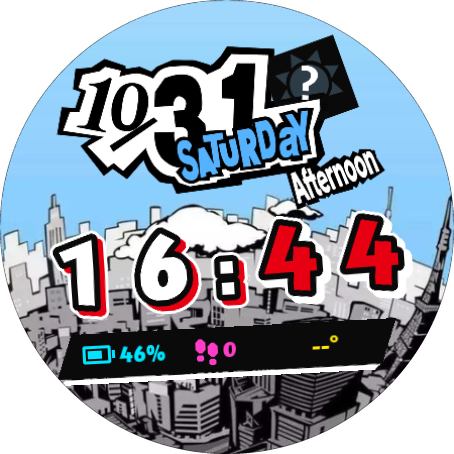
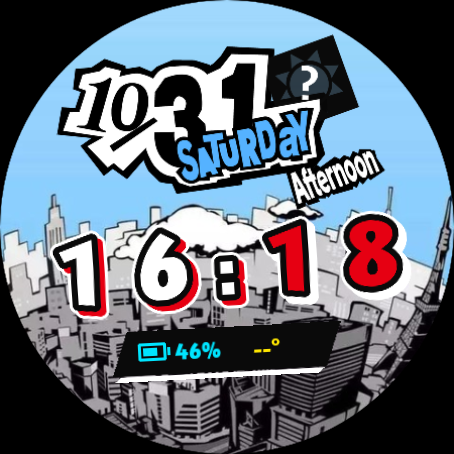
feat: remove the step count from the status bar
Steps only refreshed after switching watch faces on a Xiaomi Watch 5,
both through [STEP_COUNT] and through a step complication. A watch face
with no code cannot force the runtime to refresh it, so drop the counter.

The status bar now holds only battery and temperature, so it is narrower
and stays centred under the clock. Screenshots are recaptured.

diff --git a/tools/generate_watchface.py b/tools/generate_watchface.py
@@ -26,8 +26,6 @@ RENDER = 2  # Bitmaps are stored at 2x so they stay sharp on larger watches.
 SAFE_RADIUS = 221
 BACKGROUND_SIZE = 480
 NIGHT_BLACK_POINT = 24
-XIAOMI_STEPS = ("com.xiaomi.miwear.watchface/"
-                "com.xiaomi.miwear.watchface.complication.health.vigor.StepComplicationDataSource")
 
 CANVAS = (835, 653)
 CALENDAR_SCALE, CALENDAR_X, CALENDAR_Y = 0.36, 56, 34
@@ -47,7 +45,7 @@ TOD_HOURS = [(1, "[HOUR_0_23] &lt; 1"), (2, "[HOUR_0_23] &lt; 7"), (3, "[HOUR_0_
 RED = (230, 0, 18, 255)
 WHITE = (255, 255, 255, 255)
 BLACK = (10, 10, 10, 255)
-CYAN, MAGENTA, YELLOW = "#ff00e5ff", "#ffff3dc8", "#ffffe600"
+CYAN, YELLOW = "#ff00e5ff", "#ffffe600"
 
 # Weather arrives in the unit set on the watch, where 2 means Fahrenheit.
 CELSIUS = ("[WEATHER.TEMPERATURE_UNIT] == 2 ? round(([WEATHER.TEMPERATURE] - 32.0) * 5.0 / 9.0) "
@@ -57,7 +55,7 @@ DIGIT_SIZE = 94
 GLYPHS = "0123456789:"
 CLOCK_ANGLE = -4
 CLOCK_Y, CLOCK_SPLIT = 218, 248  # Hours end at the split, minutes start there.
-STATUS_X, STATUS_Y, STATUS_W, STATUS_H = 56, 324, 338, 50
+STATUS_X, STATUS_Y, STATUS_W, STATUS_H = 111, 324, 228, 50
 
 resource_count = 0
 
@@ -259,7 +257,7 @@ def clock(hours_font, minutes_font, height, y=CLOCK_Y):
 
 
 def status_bar():
-    """Draws the slanted black bar and its battery and step icons."""
+    """Draws the slanted black bar and its battery icon."""
     w, h = STATUS_W * RENDER, STATUS_H * RENDER
     bar = Image.new("RGBA", (w, h))
     draw = ImageDraw.Draw(bar)
@@ -272,35 +270,18 @@ def status_bar():
     def scaled(*values):
         return [v * RENDER for v in values]
 
-    cyan, magenta = (0, 229, 255, 255), (255, 61, 200, 255)
+    cyan = (0, 229, 255, 255)
     draw.rounded_rectangle(scaled(26, 12, 54, 30), radius=3 * RENDER, outline=cyan, width=3 * RENDER)
     draw.rectangle(scaled(55, 17, 58, 25), fill=cyan)
     draw.rectangle(scaled(31, 17, 45, 25), fill=cyan)
-    draw.ellipse(scaled(138, 11, 148, 25), fill=magenta)
-    draw.ellipse(scaled(150, 15, 160, 29), fill=magenta)
-    draw.ellipse(scaled(139, 27, 146, 33), fill=magenta)
-    draw.ellipse(scaled(151, 31, 158, 37), fill=magenta)
     save(bar, "p5_status_bar")
     return part("p5_status_bar", 0, 0, STATUS_W, STATUS_H)
 
 
-def status_text(x, w, color, template, y=6):
-    return (f'<PartText x="{x}" y="{y}" width="{w}" height="32"><Text align="START">'
+def status_text(x, w, color, template):
+    return (f'<PartText x="{x}" y="6" width="{w}" height="32"><Text align="START">'
             f'<Font family="markin_lt_ultrabold" size="23" color="{color}"><Template>{template}</Template></Font>'
             f'</Text></PartText>')
-
-
-def steps_slot(hide_in_ambient):
-    # [STEP_COUNT] goes stale on Xiaomi watches, so prefer their own step source.
-    # The runtime only finds slots directly under Scene, so this one repeats the
-    # status bar's position and tilt instead of sitting inside its group.
-    text = status_text(0, 84, MAGENTA, '%s<Parameter expression="[COMPLICATION.TEXT]" />', 0)
-    return f"""<ComplicationSlot x="221" y="328" width="84" height="32" angle="-3" slotId="0" displayName="steps_complication" supportedTypes="SHORT_TEXT">
-            {hide_in_ambient}
-            <DefaultProviderPolicy defaultSystemProvider="STEP_COUNT" defaultSystemProviderType="SHORT_TEXT" primaryProvider="{XIAOMI_STEPS}" primaryProviderType="SHORT_TEXT" />
-            <BoundingBox x="0" y="0" width="84" height="32" />
-            <Complication type="SHORT_TEXT">{text}</Complication>
-        </ComplicationSlot>"""
 
 
 def main():
@@ -321,8 +302,8 @@ def main():
     full = f'x="0" y="0" width="{FACE}" height="{FACE}"'
     hide_in_ambient = '<Variant mode="AMBIENT" target="alpha" value="0" />'
     temperature = condition(
-        [("[WEATHER.IS_AVAILABLE]", status_text(253, 68, YELLOW, f'%d°<Parameter expression="{CELSIUS}" />'))],
-        status_text(253, 68, YELLOW, "--°"), 16)
+        [("[WEATHER.IS_AVAILABLE]", status_text(140, 68, YELLOW, f'%d°<Parameter expression="{CELSIUS}" />'))],
+        status_text(140, 68, YELLOW, "--°"), 16)
 
     xml = f"""<?xml version="1.0" encoding="utf-8"?>
 <!-- Generated by tools/generate_watchface.py. Edit that script, not this file. -->
@@ -362,7 +343,6 @@ def main():
             {clock("p5_clock_hours", "p5_clock_minutes", digit_height)}
             </Group>
         </Group>
-        {steps_slot(hide_in_ambient)}
         <Group name="ambient" {full} alpha="0">
             <Variant mode="AMBIENT" target="alpha" value="255" />
             <Group name="ambient_clock" {full} angle="{CLOCK_ANGLE}">

diff --git a/README.md b/README.md
@@ -13,8 +13,8 @@ layered calendar on a city skyline, with a light theme by day and a dark theme b
 
 The light theme runs from 06:00 to 18:00 and the dark theme from 18:00 to 06:00.
 
-*Captured on the Wear OS emulator, which has no forecast or step sensor. That is why the weather tag
-shows "?" and the temperature and step count are empty or zero.*
+*Captured on the Wear OS emulator, which has no forecast. That is why the weather tag
+shows "?" and the temperature is empty.*
 
 ## Features
 
@@ -22,7 +22,7 @@ shows "?" and the temperature and step count are empty or zero.*
 - 24-hour two-colour clock with white hours and red minutes
 - Time of day art, such as "Early Morning", "Afternoon" and "Evening"
 - Weather icon and temperature, with a "?" tag while no forecast is available
-- Battery and step count
+- Battery level
 - Low-power always-on mode that shows only the clock outline and date
 
 ## Requirements
